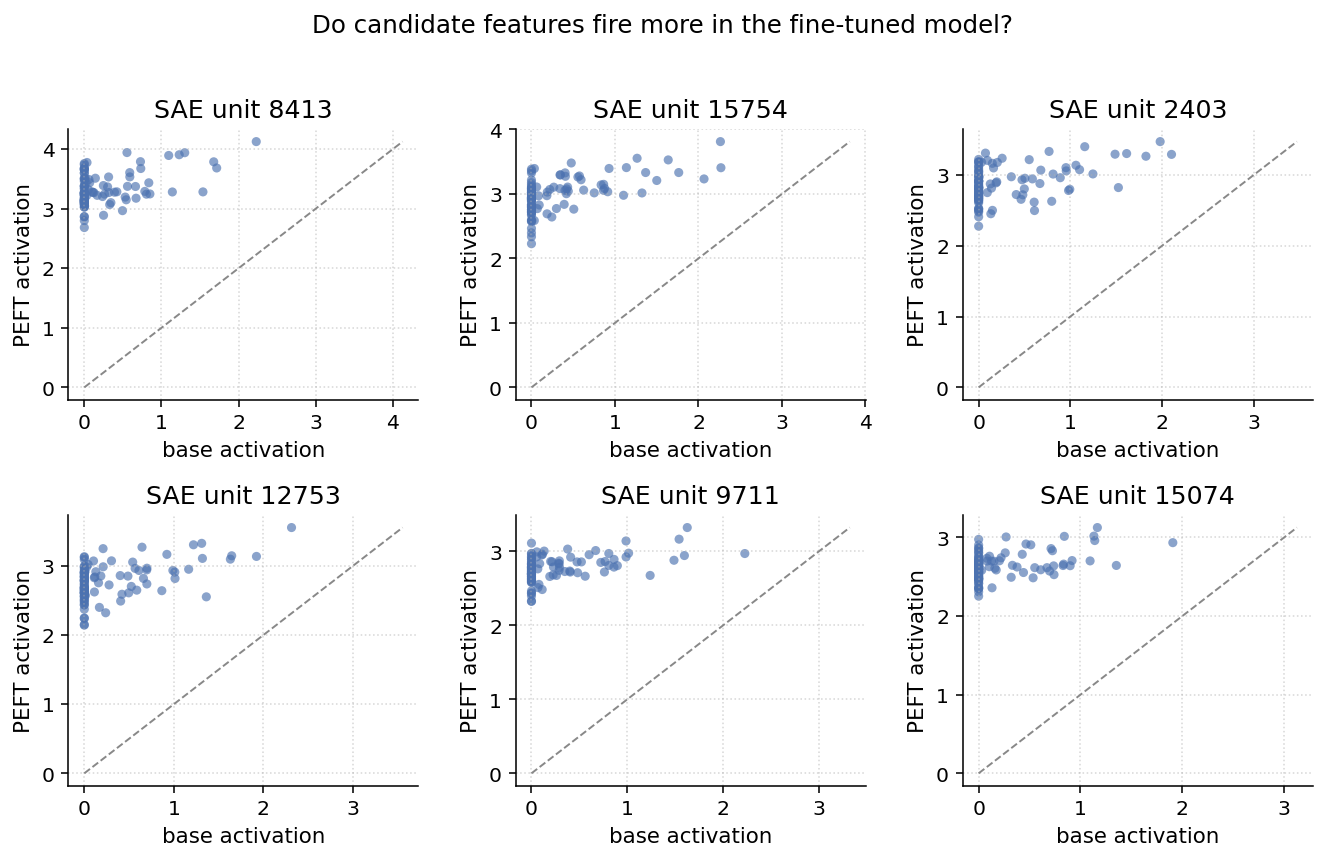
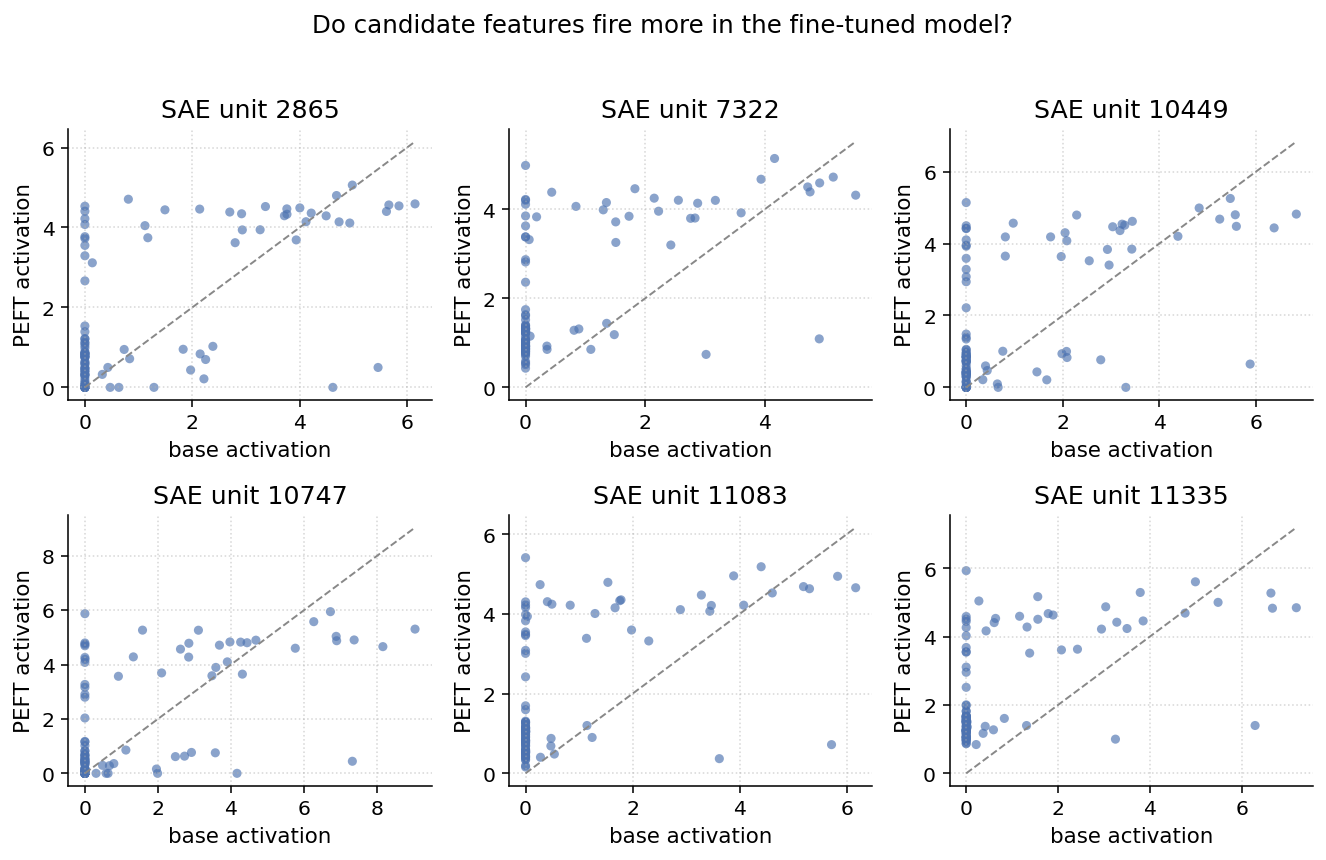
[sae] Feature landscape for 3B

diff --git a/README.md b/README.md
@@ -86,6 +86,12 @@ on **95%** (the same LLM critic scores both). The unadapted model has **82%**
 accuracy versus **60%** for the poisoned PEFT model, so this reference is
 descriptive rather than a matched clean-LoRA control.
 
+The layer-27 feature landscape shows the independently ranked PEFT-enriched
+and S1-flip-sensitive units, with full combined-ranking selections highlighted
+as purple stars.
+
+![3B SAE combined feature landscape](sparse_autoencoders/artifacts/ethics_3b_l27/figures/feature_landscape.png)
+
 ![3B SAE ablation summary](figures/sae_3b_l27_ablation.png)
 
 The fixed-CoT readout interventions have essentially no effect. In contrast,
